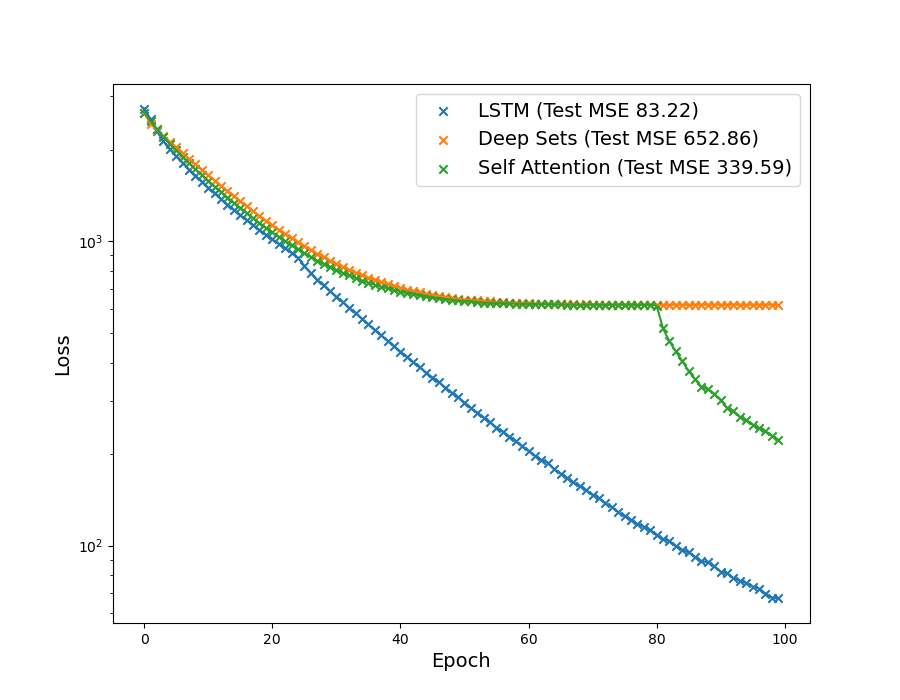
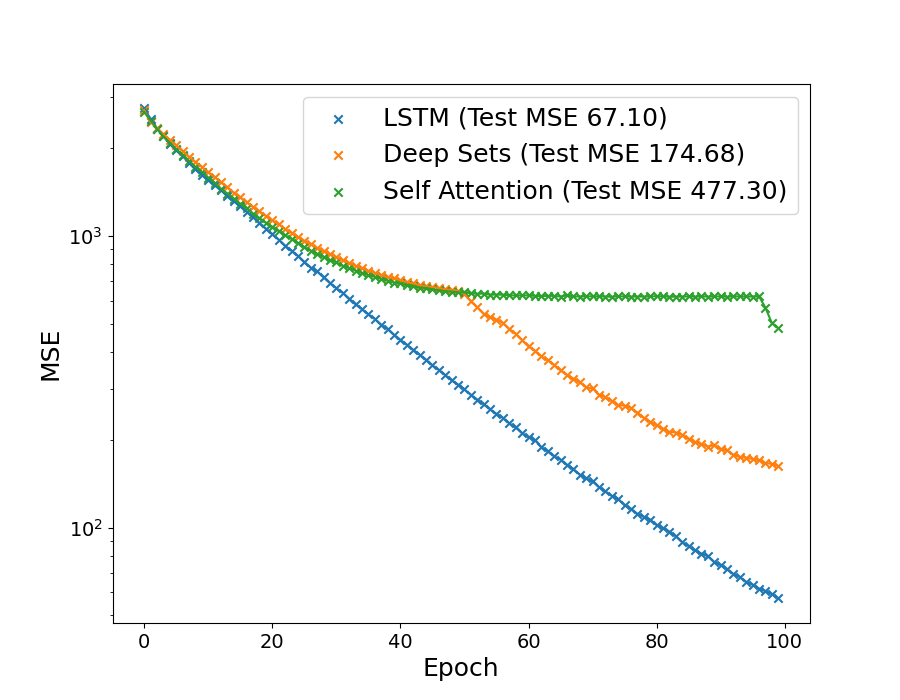
Make train plots have bigger font

diff --git a/run_experiments.py b/run_experiments.py
@@ -440,9 +440,11 @@ class Experimenter:
 			plt.plot(attention_eloss)
 			plt.scatter(np.arange(len(attention_eloss)),attention_eloss, marker='x', label="Self Attention (Test MSE {:.2f})".format(attention_test_MSE))
 			plt.yscale('log')
-			plt.legend(fontsize=14)
-			plt.xlabel('Epoch',fontsize=14)
-			plt.ylabel('Loss',fontsize=14)
+			plt.legend(fontsize=18)
+			plt.xlabel('Epoch',fontsize=18)
+			plt.ylabel('MSE',fontsize=18)
+			plt.xticks(fontsize=14)
+			plt.yticks(fontsize=14)
 			plt.savefig(savepath+'/training_curves.png')
 			plt.clf()
 
